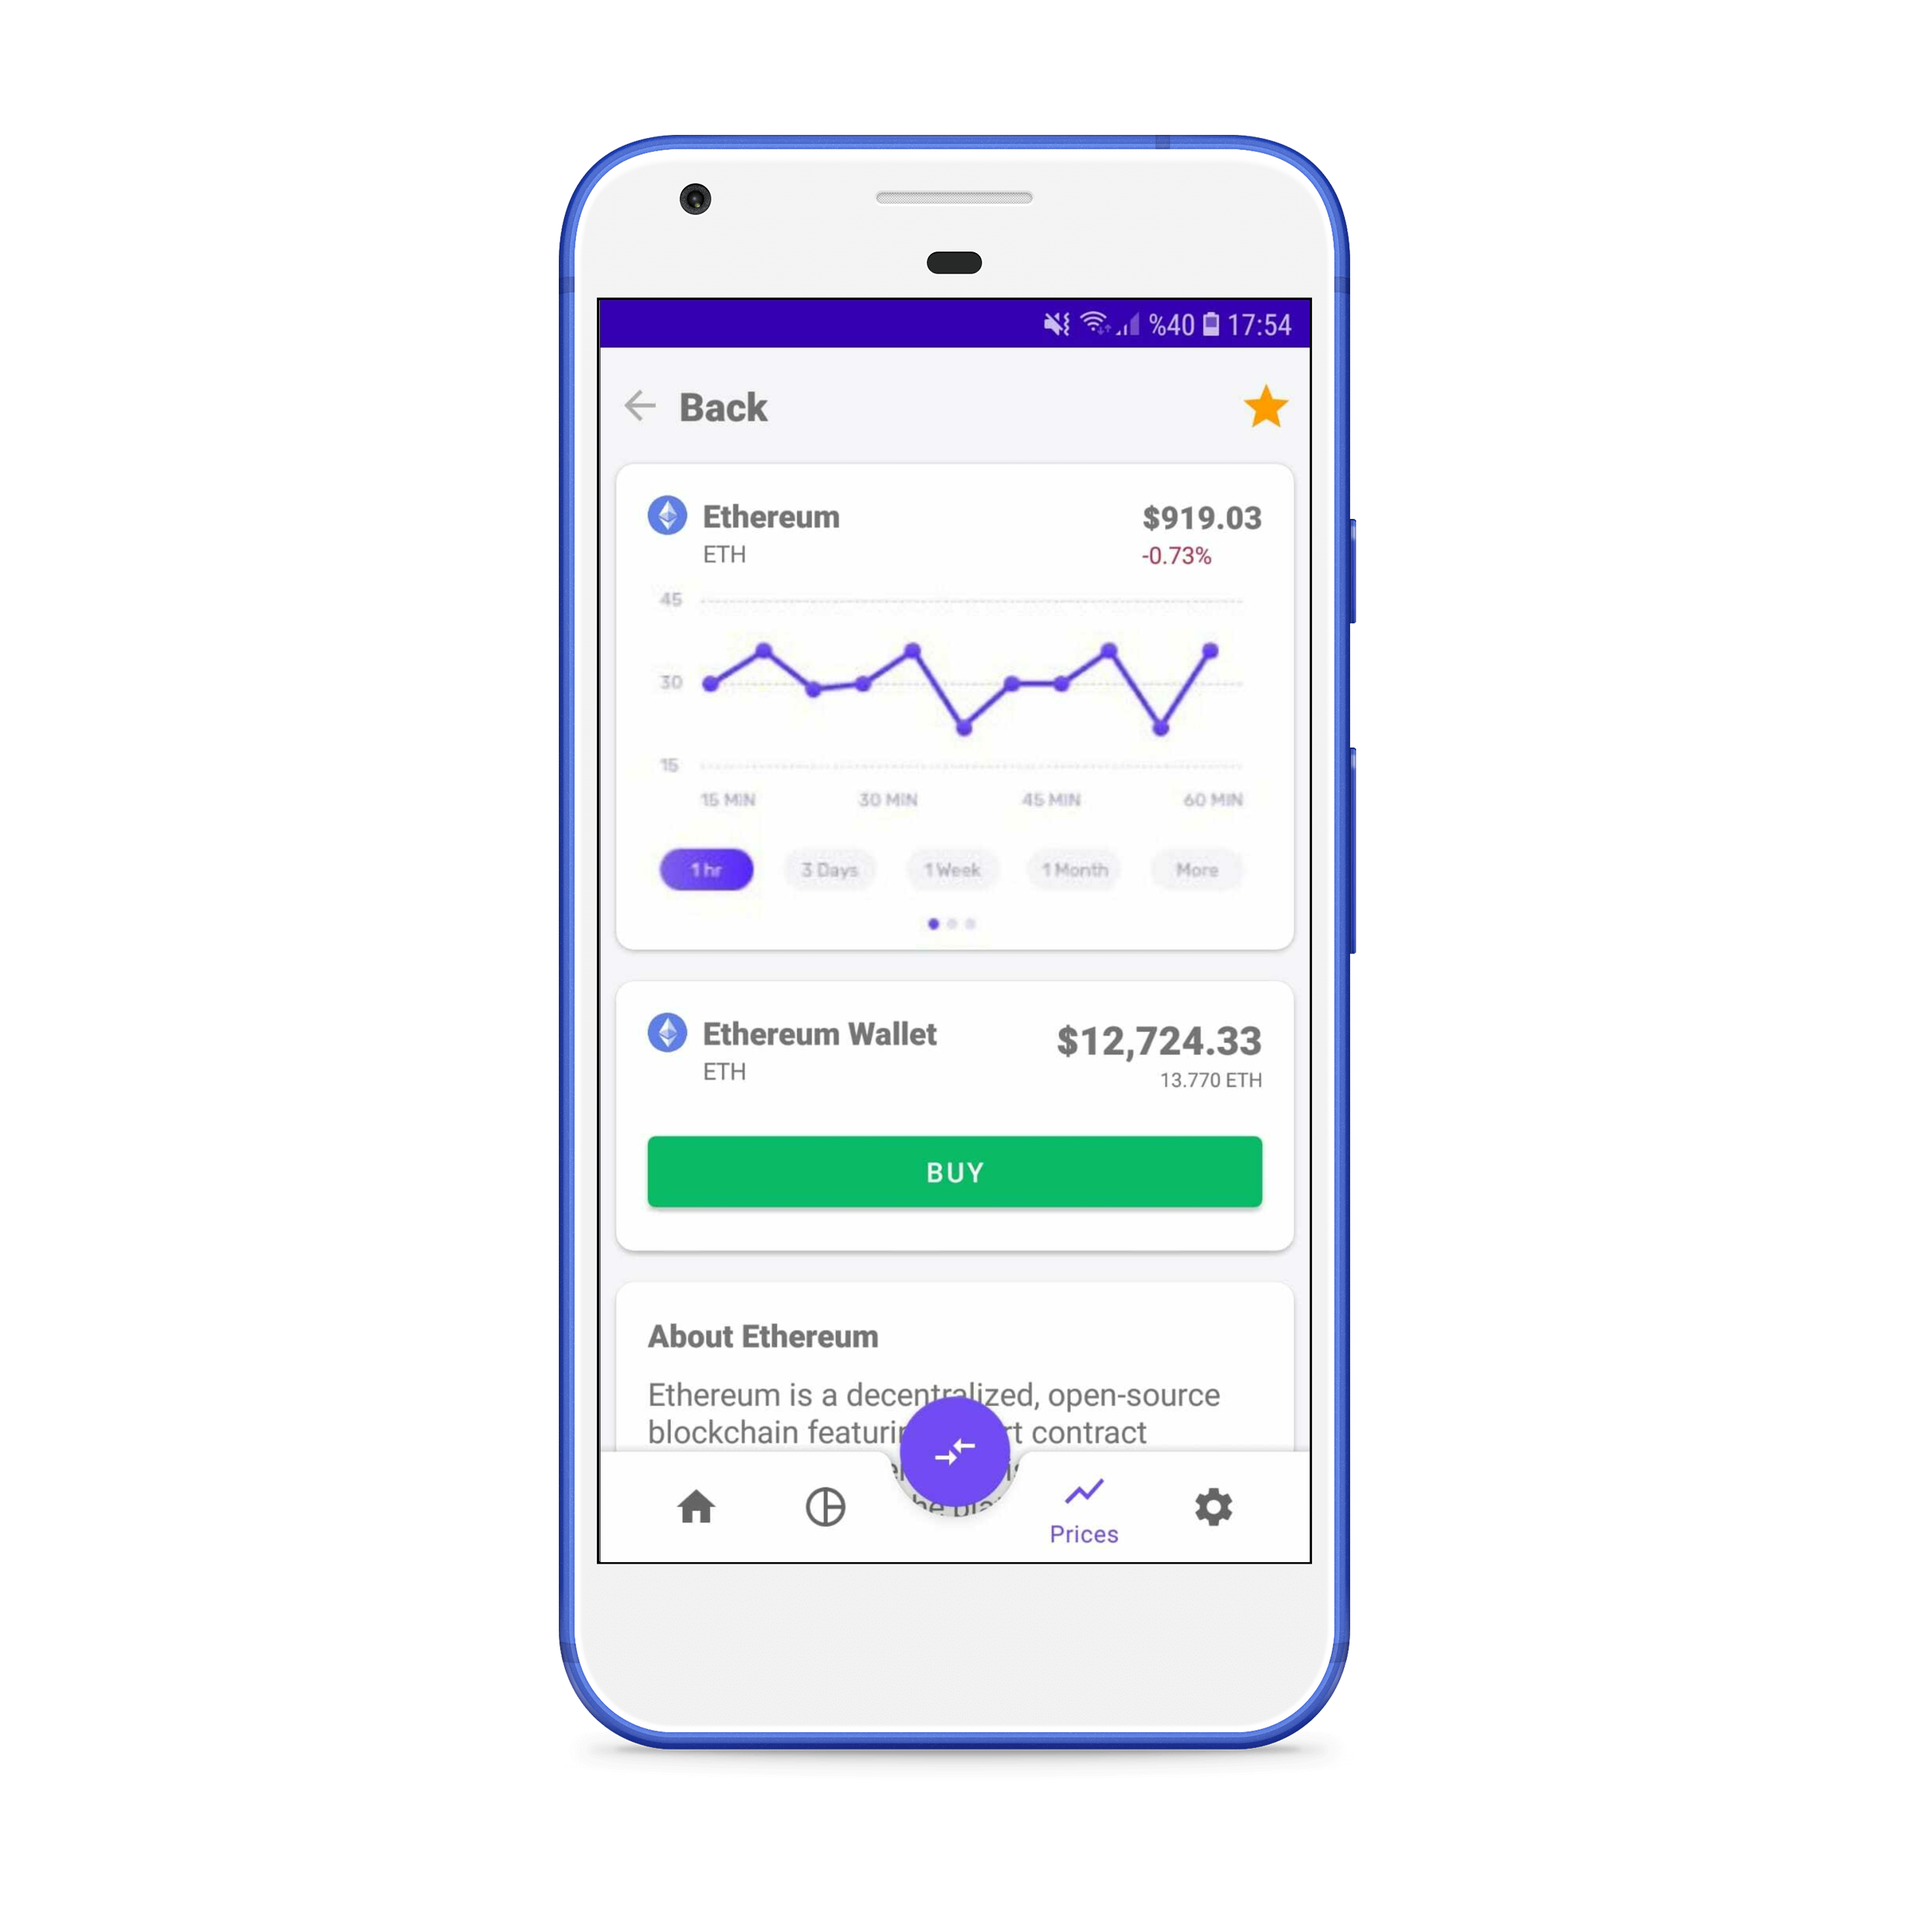
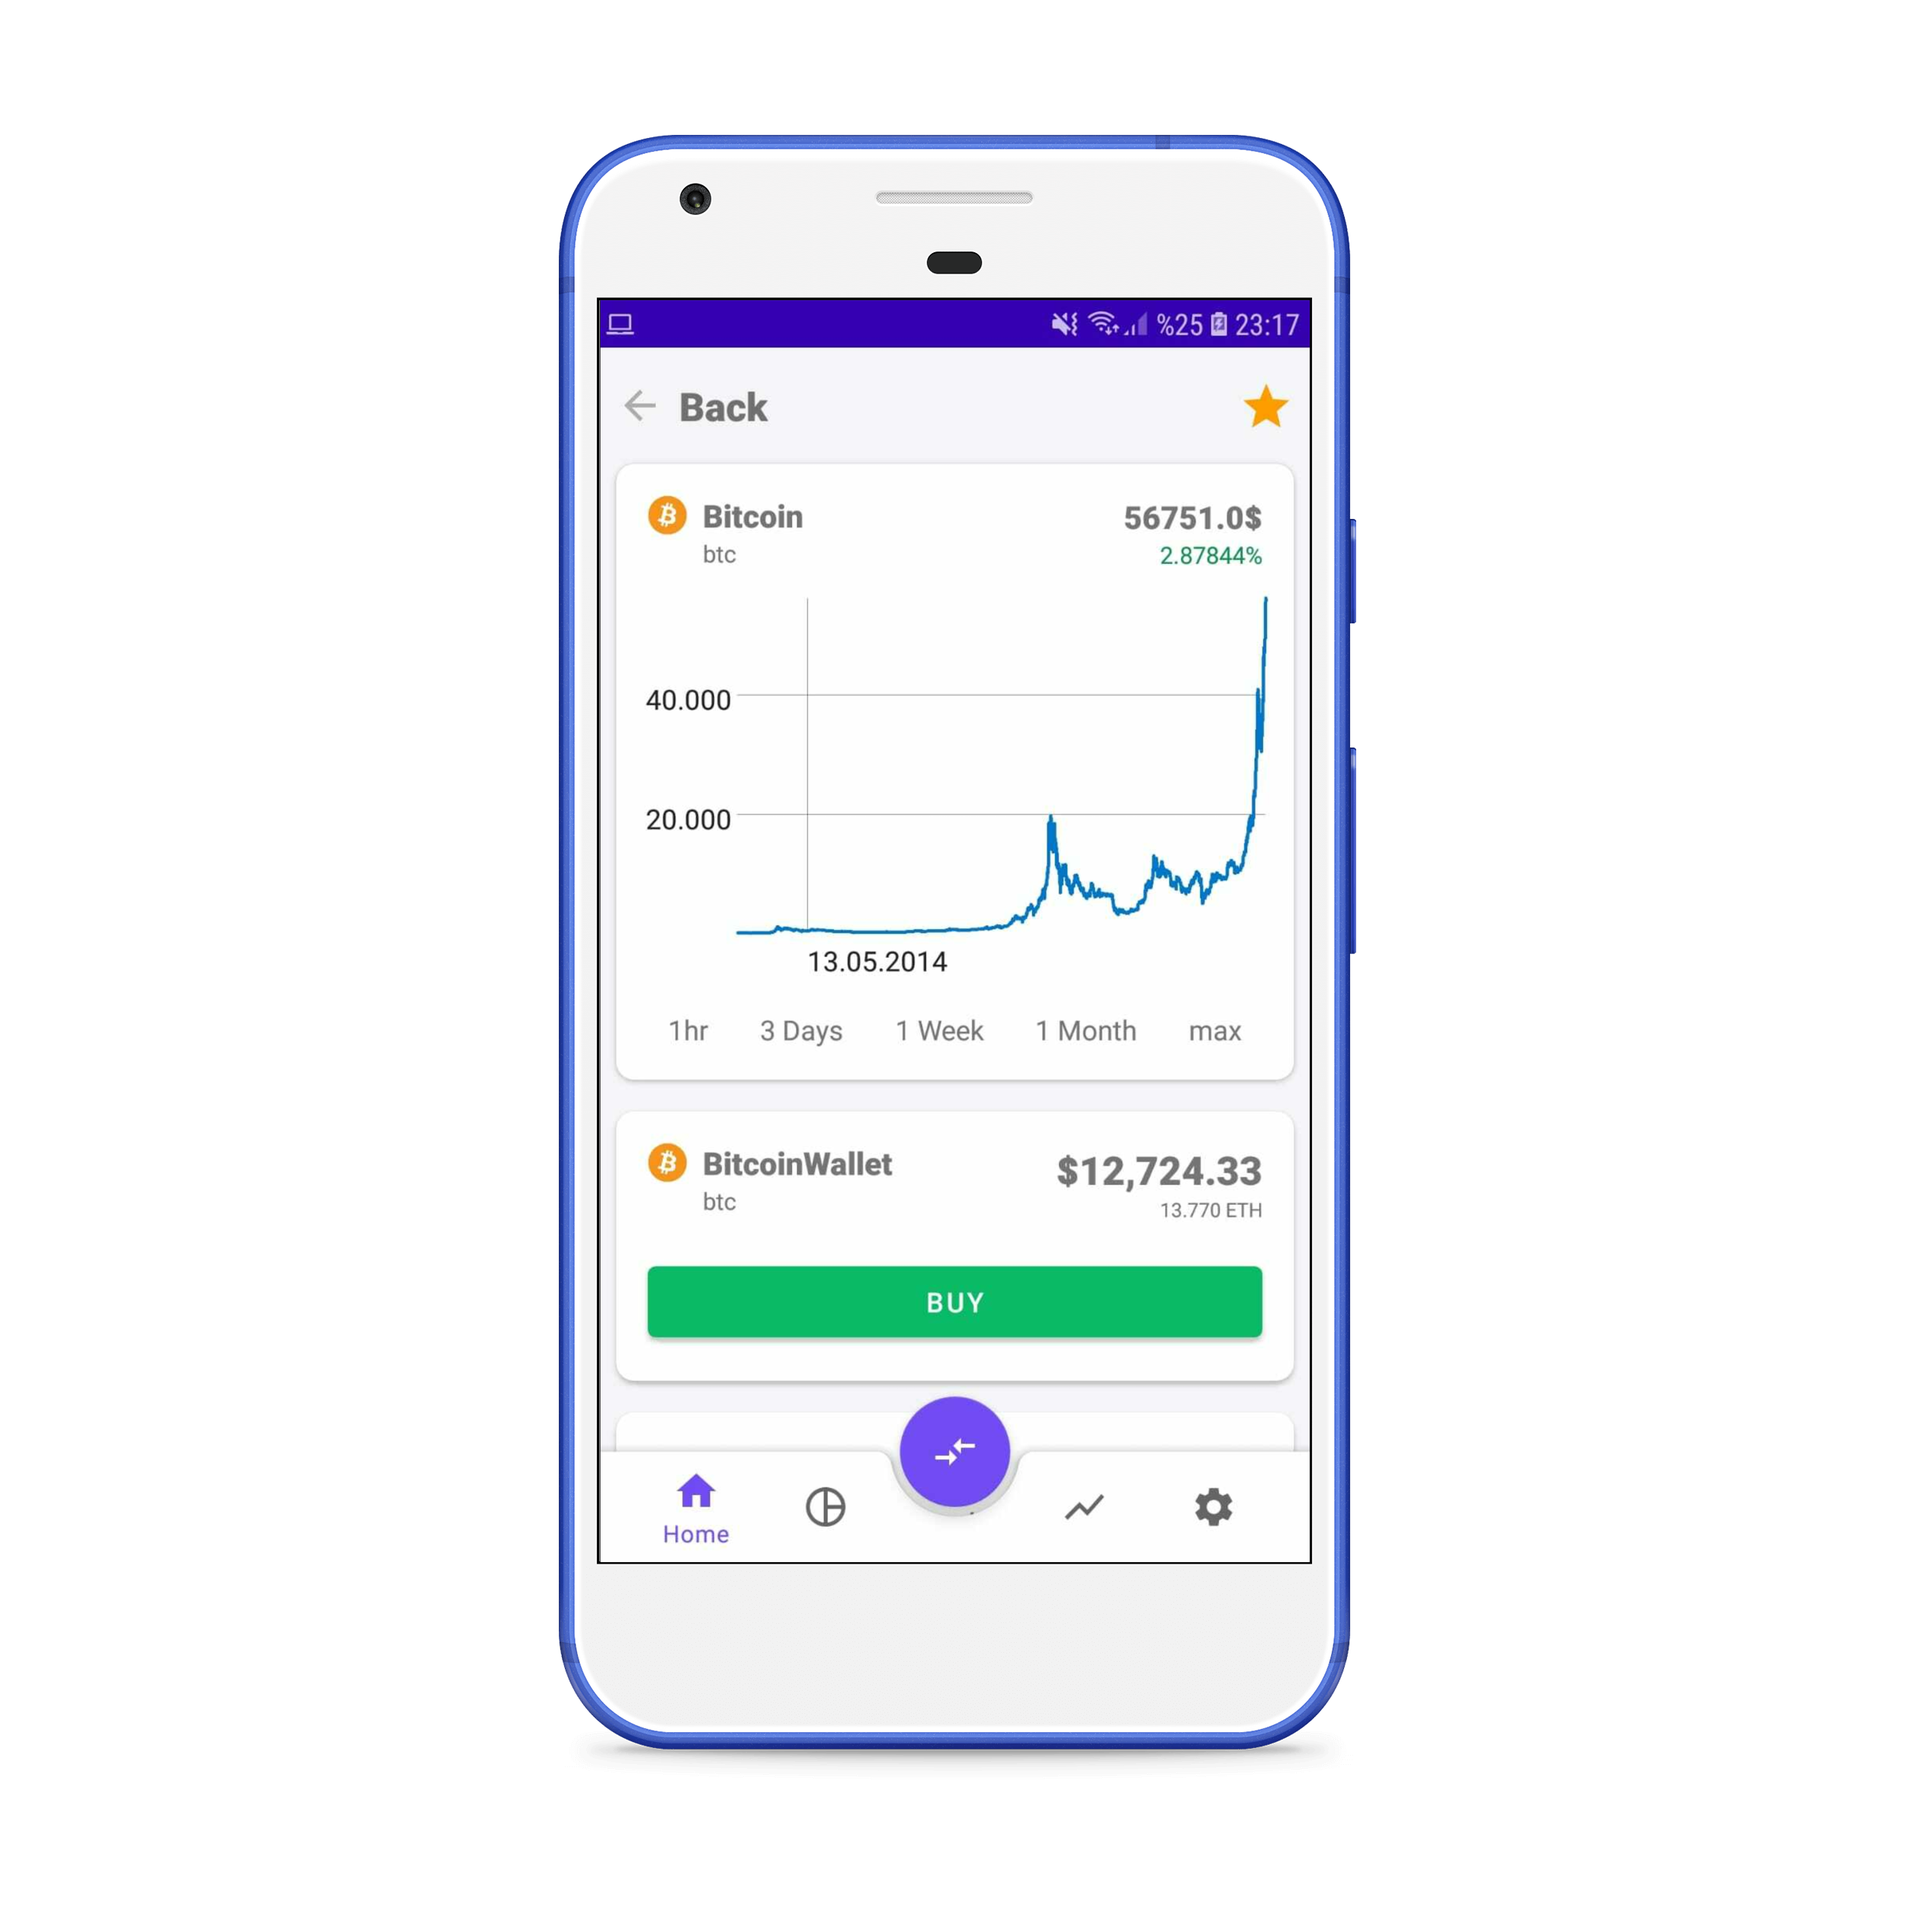
GraphView added

diff --git a/CryptoCoinApp/app/src/main/java/com/tohandesign/cryptocoinapp/DetailsActivity.java b/CryptoCoinApp/app/src/main/java/com/tohandesign/cryptocoinapp/DetailsActivity.java
@@ -12,15 +12,32 @@ import android.view.MenuItem;
 import android.view.View;
 import android.widget.ImageView;
 import android.widget.TextView;
+import android.widget.Toast;
 
 import com.google.android.material.bottomnavigation.BottomNavigationView;
+import com.jjoe64.graphview.DefaultLabelFormatter;
+import com.jjoe64.graphview.GraphView;
+import com.jjoe64.graphview.helper.DateAsXAxisLabelFormatter;
+import com.jjoe64.graphview.series.DataPoint;
+import com.jjoe64.graphview.series.DataPointInterface;
+import com.jjoe64.graphview.series.LineGraphSeries;
+import com.jjoe64.graphview.series.OnDataPointTapListener;
+import com.jjoe64.graphview.series.Series;
 import com.squareup.picasso.Picasso;
 import com.tohandesign.cryptocoinapp.Adapters.RecyclerAdapter;
+import com.tohandesign.cryptocoinapp.CurrencyApi.CoinHistoryItem;
 import com.tohandesign.cryptocoinapp.CurrencyApi.CryptoApi;
 import com.tohandesign.cryptocoinapp.CurrencyApi.CryptoCoin;
 
 import org.json.JSONException;
 
+import java.text.DateFormat;
+import java.time.format.DateTimeFormatter;
+import java.util.Collections;
+import java.util.Comparator;
+import java.util.Date;
+import java.util.List;
+import java.util.Locale;
 import java.util.concurrent.ExecutionException;
 
 public class DetailsActivity extends AppCompatActivity {
@@ -32,6 +49,9 @@ public class DetailsActivity extends AppCompatActivity {
     private ImageView image, image2;
 
     SwipeRefreshLayout swipeRefreshLayout;
+
+    private int chartDay = 14;
+    private String type = "prices";
 
 
     @Override
@@ -52,6 +72,9 @@ public class DetailsActivity extends AppCompatActivity {
         subnameView2 = (TextView)findViewById(R.id.cryptoShort2);
 
         getData();
+        getChartData(chartDay,type);
+
+
 
         swipeRefreshLayout = findViewById(R.id.swiperefresh);
         swipeRefreshLayout.setOnRefreshListener(new SwipeRefreshLayout.OnRefreshListener() {
@@ -80,8 +103,8 @@ public class DetailsActivity extends AppCompatActivity {
                         startActivity(k);
                         break;
                     case R.id.main_settings:
-                        //Intent l = new Intent(getApplication(), ListActivity.class);
-                        //startActivity(l);
+                        Intent l = new Intent(getApplication(), SettingsActivity.class);
+                        startActivity(l);
                         break;
                 }
 
@@ -94,15 +117,17 @@ public class DetailsActivity extends AppCompatActivity {
     }
 
 
-    public void getData(){
-        CryptoApi cryptoApi = new CryptoApi();
+    private void getData(){
+
 
         try {
+            CryptoApi cryptoApi = new CryptoApi();
             coin = cryptoApi.getCoin(COIN_ID,"usd");
             nameView.setText(coin.getName());
             subnameView.setText(coin.getSymbol());
             subnameView2.setText(coin.getSymbol());
             valueView.setText(coin.getCurrentPrice()+"$");
+
 
             Double rate = coin.getChange_percentage();
             rateView.setTextColor((rate < 0) ? Color.parseColor("#8F0000") : Color.parseColor("#0D8E53"));
@@ -110,7 +135,7 @@ public class DetailsActivity extends AppCompatActivity {
 
             Picasso.get().load(coin.getImageUrl()).into(image);
             Picasso.get().load(coin.getImageUrl()).into(image2);
-            walletText.setText(coin.getName() + "Wallet");
+            walletText.setText(coin.getName() + " Wallet");
 
         } catch (JSONException e) {
             Log.i("JsonLog", e.toString());
@@ -124,11 +149,109 @@ public class DetailsActivity extends AppCompatActivity {
         }
 
 
+
     }
+
+    private void getChartData(int day, String type){
+        try {
+            CryptoApi cryptoApi = new CryptoApi();
+            List<CoinHistoryItem> list = cryptoApi.getCoinHistory(COIN_ID, "usd", day, type);
+
+
+            GraphView graph = (GraphView) findViewById(R.id.graph);
+
+
+            // set date label formatter
+            graph.getGridLabelRenderer().setLabelFormatter(new DateAsXAxisLabelFormatter(this));
+            graph.getGridLabelRenderer().setNumHorizontalLabels(2);
+
+            LineGraphSeries<DataPoint> series = new LineGraphSeries<DataPoint>(getPoints(list));
+
+            CoinHistoryItem minItem =  Collections.min(list, Comparator.comparing(s -> s.getCurrentPrice()));
+            CoinHistoryItem maxItem =  Collections.max(list, Comparator.comparing(s -> s.getCurrentPrice()));
+
+            // set manual X bounds
+            graph.getViewport().setYAxisBoundsManual(true);
+
+            graph.getViewport().setMinY(minItem.getCurrentPrice());
+            graph.getViewport().setMaxY(maxItem.getCurrentPrice());
+
+            graph.getViewport().setXAxisBoundsManual(true);
+            graph.getViewport().setMinX(list.get(0).getDate().getTime());
+            graph.getViewport().setMaxX(list.get(list.size()-1).getDate().getTime());
+
+            // enable scaling and scrolling
+            graph.getViewport().setScalable(true);
+            graph.getViewport().setScalableY(true);
+            graph.removeAllSeries();
+            graph.addSeries(series);
+
+
+            series.setOnDataPointTapListener(new OnDataPointTapListener() {
+                @Override
+                public void onTap(Series series, DataPointInterface dataPoint) {
+                    Date date = new java.util.Date((long) dataPoint.getX());
+                    String formattedDate = (String) android.text.format.DateFormat.format("dd-MM-yyyy HH:mm:ss", date);
+
+                    Toast.makeText(getApplicationContext(), formattedDate + " - " + dataPoint.getY() + "$", Toast.LENGTH_SHORT).show();
+                }
+            });
+
+        } catch (JSONException e) {
+            Log.i("JsonLog", e.toString());
+            e.printStackTrace();
+        } catch (ExecutionException e) {
+            Log.i("JsonLog", e.toString());
+            e.printStackTrace();
+        } catch (InterruptedException e) {
+            Log.i("JsonLog", e.toString());
+            e.printStackTrace();
+        }
+    }
+
+    public void chartDaysClicked(View v) {
+
+        switch (v.getId()){
+            case R.id.onehrText:
+                chartDay = 1;
+                break;
+            case R.id.threeDay:
+                chartDay = 3;
+                break;
+            case R.id.oneWeek:
+                chartDay = 7;
+                break;
+            case R.id.oneMonth:
+                chartDay = 30;
+                break;
+            case R.id.maxText:
+                chartDay = 999;
+                break;
+        }
+        getChartData(chartDay,type);
+
+
+    }
+
+    private  DataPoint[] getPoints(List<CoinHistoryItem> list){
+        DataPoint[] dpArray = new DataPoint[list.size()];
+        for(int i = 0; i < list.size(); i++) {
+            DataPoint dp = new DataPoint(list.get(i).getDate(), list.get(i).getCurrentPrice());
+
+
+            dpArray[i] = dp;
+        }
+    return dpArray;
+    }
+
+
+
 
     public void backClicked(View v) {
         super.onBackPressed();
     }
+
+
 
 
 }

diff --git a/CryptoCoinApp/app/src/main/java/com/tohandesign/cryptocoinapp/CurrencyApi/CryptoApi.java b/CryptoCoinApp/app/src/main/java/com/tohandesign/cryptocoinapp/CurrencyApi/CryptoApi.java
@@ -1,5 +1,6 @@
 package com.tohandesign.cryptocoinapp.CurrencyApi;
 
+import android.graphics.Color;
 import android.util.Log;
 
 import org.json.JSONArray;
@@ -30,13 +31,13 @@ public class CryptoApi extends JsonTracker {
         }
 
 
+
      return itemList;
     }
 
 
     public CryptoCoin getCoin(String id, String currency) throws ExecutionException, InterruptedException, JSONException {
         String jsonStr = API_KEY+ "/coins/markets?vs_currency="+currency+"&ids="+id+"&order=market_cap_desc&per_page=100&page=1&sparkline=false";
-        List<CryptoCoin> itemList = new ArrayList<CryptoCoin>();
 
         JSONArray jsonArray = new JSONArray(execute(jsonStr).get());
         JSONObject o = jsonArray.getJSONObject(0);
@@ -45,6 +46,37 @@ public class CryptoApi extends JsonTracker {
         return coin;
     }
 
+
+    public List<CoinHistoryItem> getCoinHistory(String id, String currency, int day, String type) throws ExecutionException, InterruptedException, JSONException {
+        String interval = day > 1 ? "daily" : "hourly";
+        String dayStr = day < 100 ? day+"" : "max";
+        String jsonStr = API_KEY+ "/coins/"+id+"/market_chart?vs_currency="+currency+"&days="+dayStr+"&interval="+interval;
+        List<CoinHistoryItem> itemList = new ArrayList<CoinHistoryItem>();
+
+
+        JSONObject jsonObj = new JSONObject(execute(jsonStr).get());
+        JSONArray jsonArray = jsonObj.getJSONArray(type);
+
+        for (int i = 0; i < jsonArray.length(); i++) {
+            JSONArray o = jsonArray.getJSONArray(i);
+            CoinHistoryItem item = new CoinHistoryItem(id,new java.util.Date(Long.parseLong(o.getString(0))));
+            switch (type){
+                case "prices":
+                    item.setCurrentPrice(o.getDouble(1));
+                    break;
+                case "market_caps":
+                    item.setMarketCap(o.getDouble(1));
+                    break;
+                case "total_volumes":
+                    item.setTotalVolume(o.getDouble(1));
+                    break;
+            }
+
+            itemList.add(item);
+        }
+
+        return itemList;
+    }
 
 
 

diff --git a/CryptoCoinApp/app/src/main/java/com/tohandesign/cryptocoinapp/CurrencyApi/CoinHistoryItem.java b/CryptoCoinApp/app/src/main/java/com/tohandesign/cryptocoinapp/CurrencyApi/CoinHistoryItem.java
@@ -1,0 +1,60 @@
+package com.tohandesign.cryptocoinapp.CurrencyApi;
+
+import java.util.Date;
+
+public class CoinHistoryItem {
+
+    private String id;
+    private Date date;
+    private double currentPrice;
+    private double marketCap;
+    private double totalVolume;
+
+
+    public CoinHistoryItem(String id, Date date) {
+        this.id = id;
+        this.date = date;
+    }
+
+
+
+    public String getId() {
+        return id;
+    }
+
+    public void setId(String id) {
+        this.id = id;
+    }
+
+    public Date getDate() {
+        return date;
+    }
+
+    public void setDate(Date date) {
+        this.date = date;
+    }
+
+    public double getCurrentPrice() {
+        return currentPrice;
+    }
+
+    public void setCurrentPrice(double currentPrice) {
+        this.currentPrice = currentPrice;
+    }
+
+    public double getMarketCap() {
+        return marketCap;
+    }
+
+    public void setMarketCap(double marketCap) {
+        this.marketCap = marketCap;
+    }
+
+    public double getTotalVolume() {
+        return totalVolume;
+    }
+
+    public void setTotalVolume(double totalVolume) {
+        this.totalVolume = totalVolume;
+    }
+}
